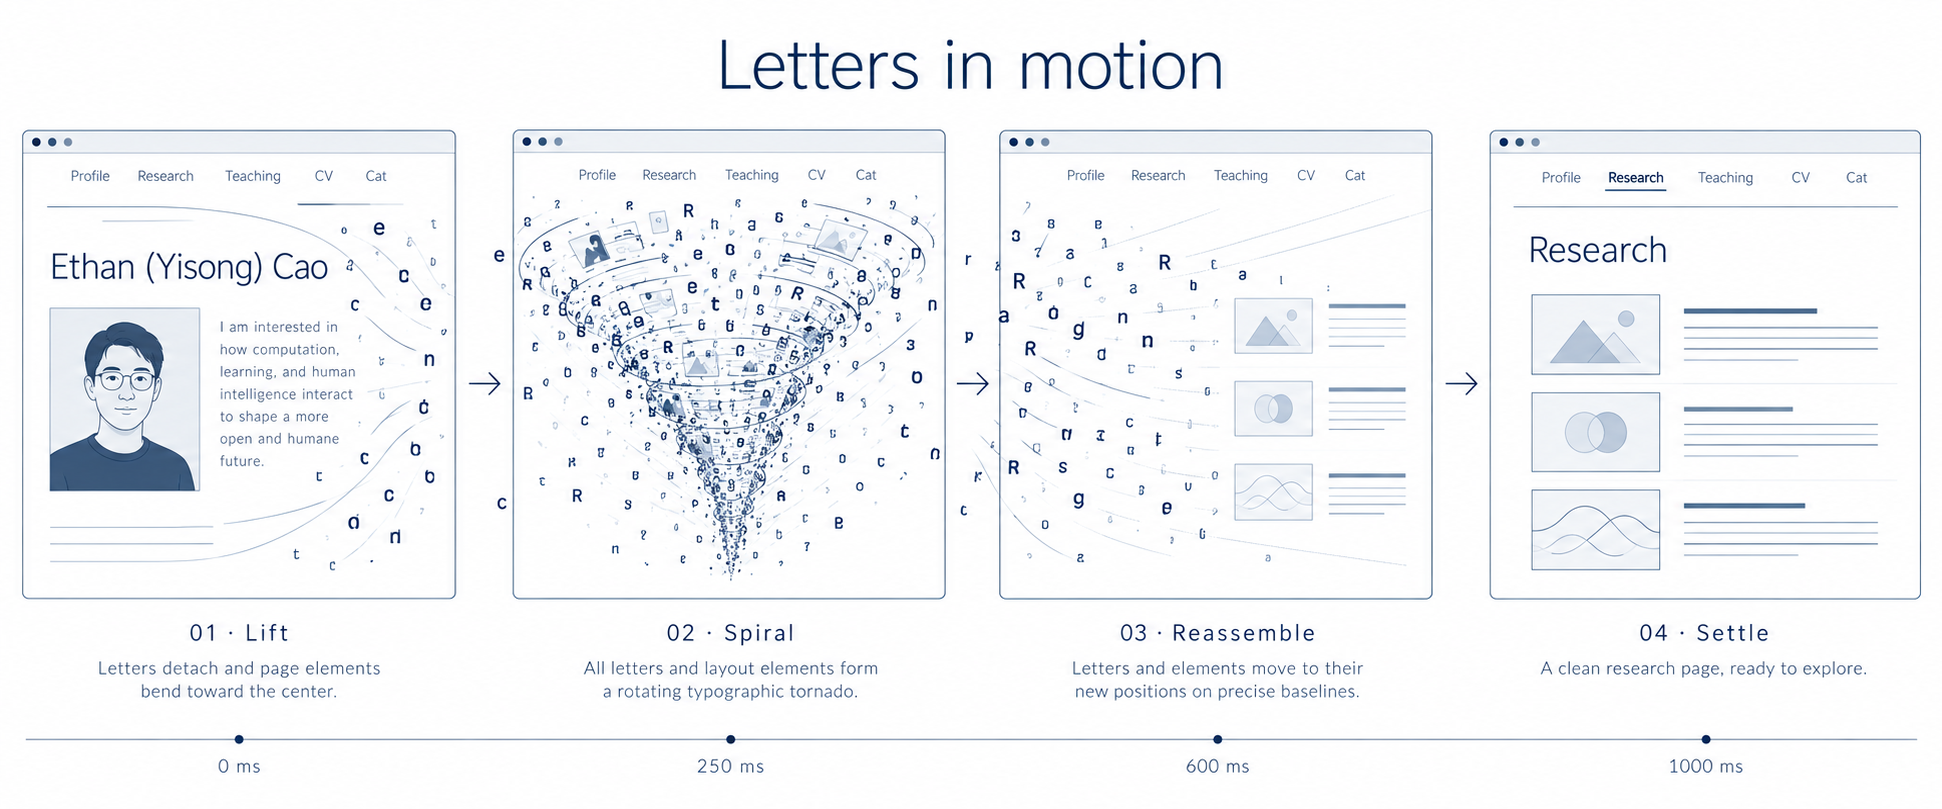
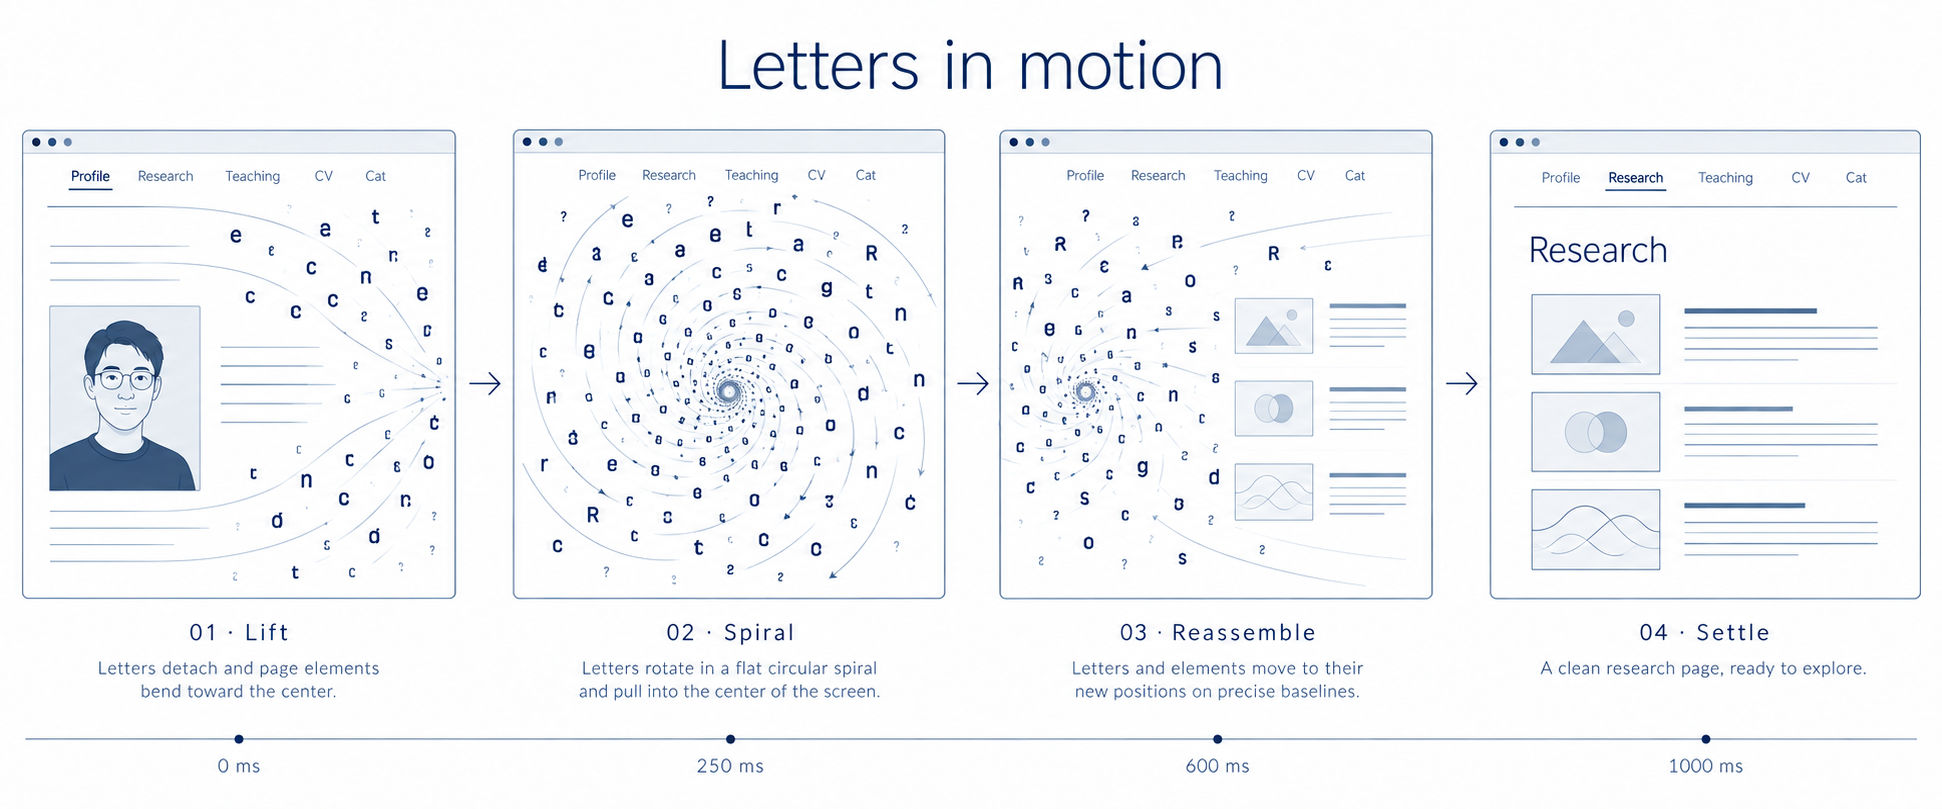
Redraw letter transition as a top-down circular spiral

diff --git a/README.md b/README.md
@@ -82,7 +82,7 @@ The homepage also contains a static biography for search engines and visitors wi
 - `assets/images/cats/`: all six original photos and seven newly supplied cat photos, preserved.
 - `assets/fonts/`: local Lato fonts and their Open Font License.
 - `docs/design/baseline.png`: accepted design reference.
-- `docs/design/tornado-transition.png`: a four-frame concept drawing of a future letter-tornado transition, generated with the built-in imagegen tool. The full prompt is in `docs/design/tornado-transition-prompt.txt`. This drawing is a concept; the public site uses instant page changes.
+- `docs/design/tornado-transition.png`: a four-frame concept drawing of a future letter transition: a top-down, flat circular spiral pulls letters into the center of the screen, then releases them into the next page. Generated with the built-in imagegen tool; the full prompt is in `docs/design/tornado-transition-prompt.txt`. This drawing is a concept; the public site uses instant page changes.
 - `scripts/`, `tests/browser/`: preview and verification.
 
 Old generated design drafts were moved to `/tmp/ethan-site-design-drafts-20261012`. The previous survey and remote GIF embeds were removed from the public page.
